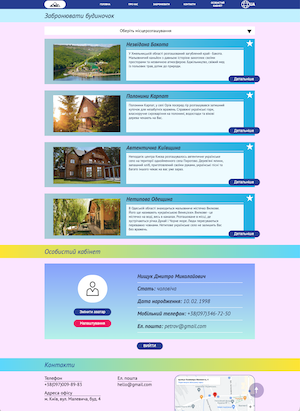
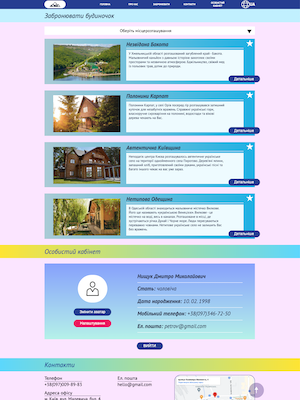
updated main page and resized images

diff --git a/index.html b/index.html
@@ -19,10 +19,14 @@
             <div><a href="./hw5/" target="_blank"><img src="./img/Stars.png" alt="Site with shined stars"></a></div>
             <div><a href="./hw6/" target="_blank"><img src="./img/CV.png" alt="Site about one creative designer"></a></div>
         </div>
-            <iframe src="./hw7" frameborder="0" scrolling="no"></iframe>
+        <iframe src="./hw7" frameborder="0" scrolling="no"></iframe>
+        <div class="link">
+            <a href="./hw7/" target="_blank">open form in new tab</a>
+        </div>
+
     </div>
     <footer>
-        <a href="https://github.com/AriannaLiss/js" target="_blank">
+        <a href="https://github.com/AriannaLiss/js" target="_blank" alt="git hub link">
         Arianna Liss
         </a>
     </footer>

diff --git a/style.css b/style.css
@@ -29,6 +29,7 @@ h1:hover{
 
 .container{
     width:80%;
+    min-width: 732px;
     margin: 3% auto;
 }
 
@@ -39,7 +40,7 @@ h1:hover{
 }
 
 .gallery > div{
-    width: 23%;
+    width: 20%;
     height: 40vh;
     overflow: hidden;
     margin: 2%;
@@ -56,15 +57,27 @@ img, iframe{
 }
 
 iframe{
-    height:100vh;
+    height:60vh;
     overflow: hidden;
     transition: all 1s;
+    margin: 2%;
+    width: 96%;
 }
 
 iframe:hover{
     width: 110%;
-    height: 110vh;
+    height: 70vh;
     margin: 0 -5%;
+}
+
+.link{
+    text-align: right; 
+    transition: all 1s;
+    margin :1rem 2%;
+}
+
+.link:hover{
+    font-size:2em;
 }
 
 footer{
